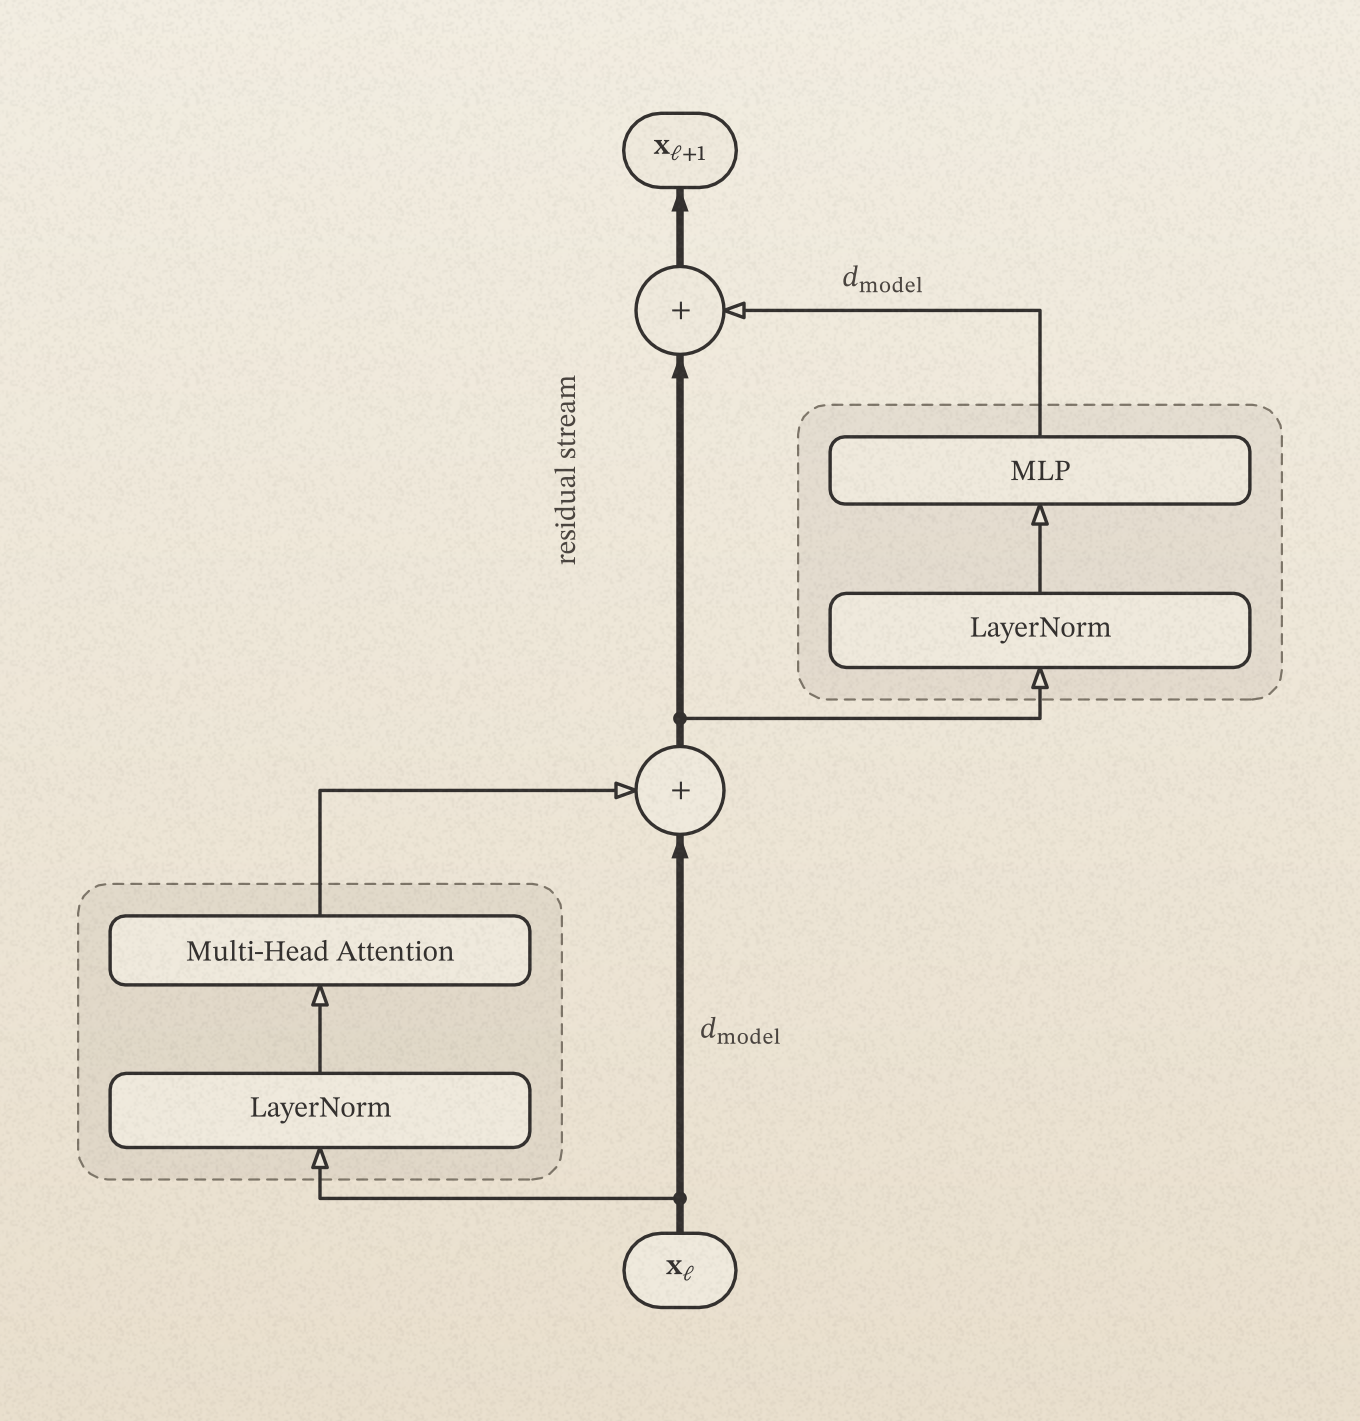
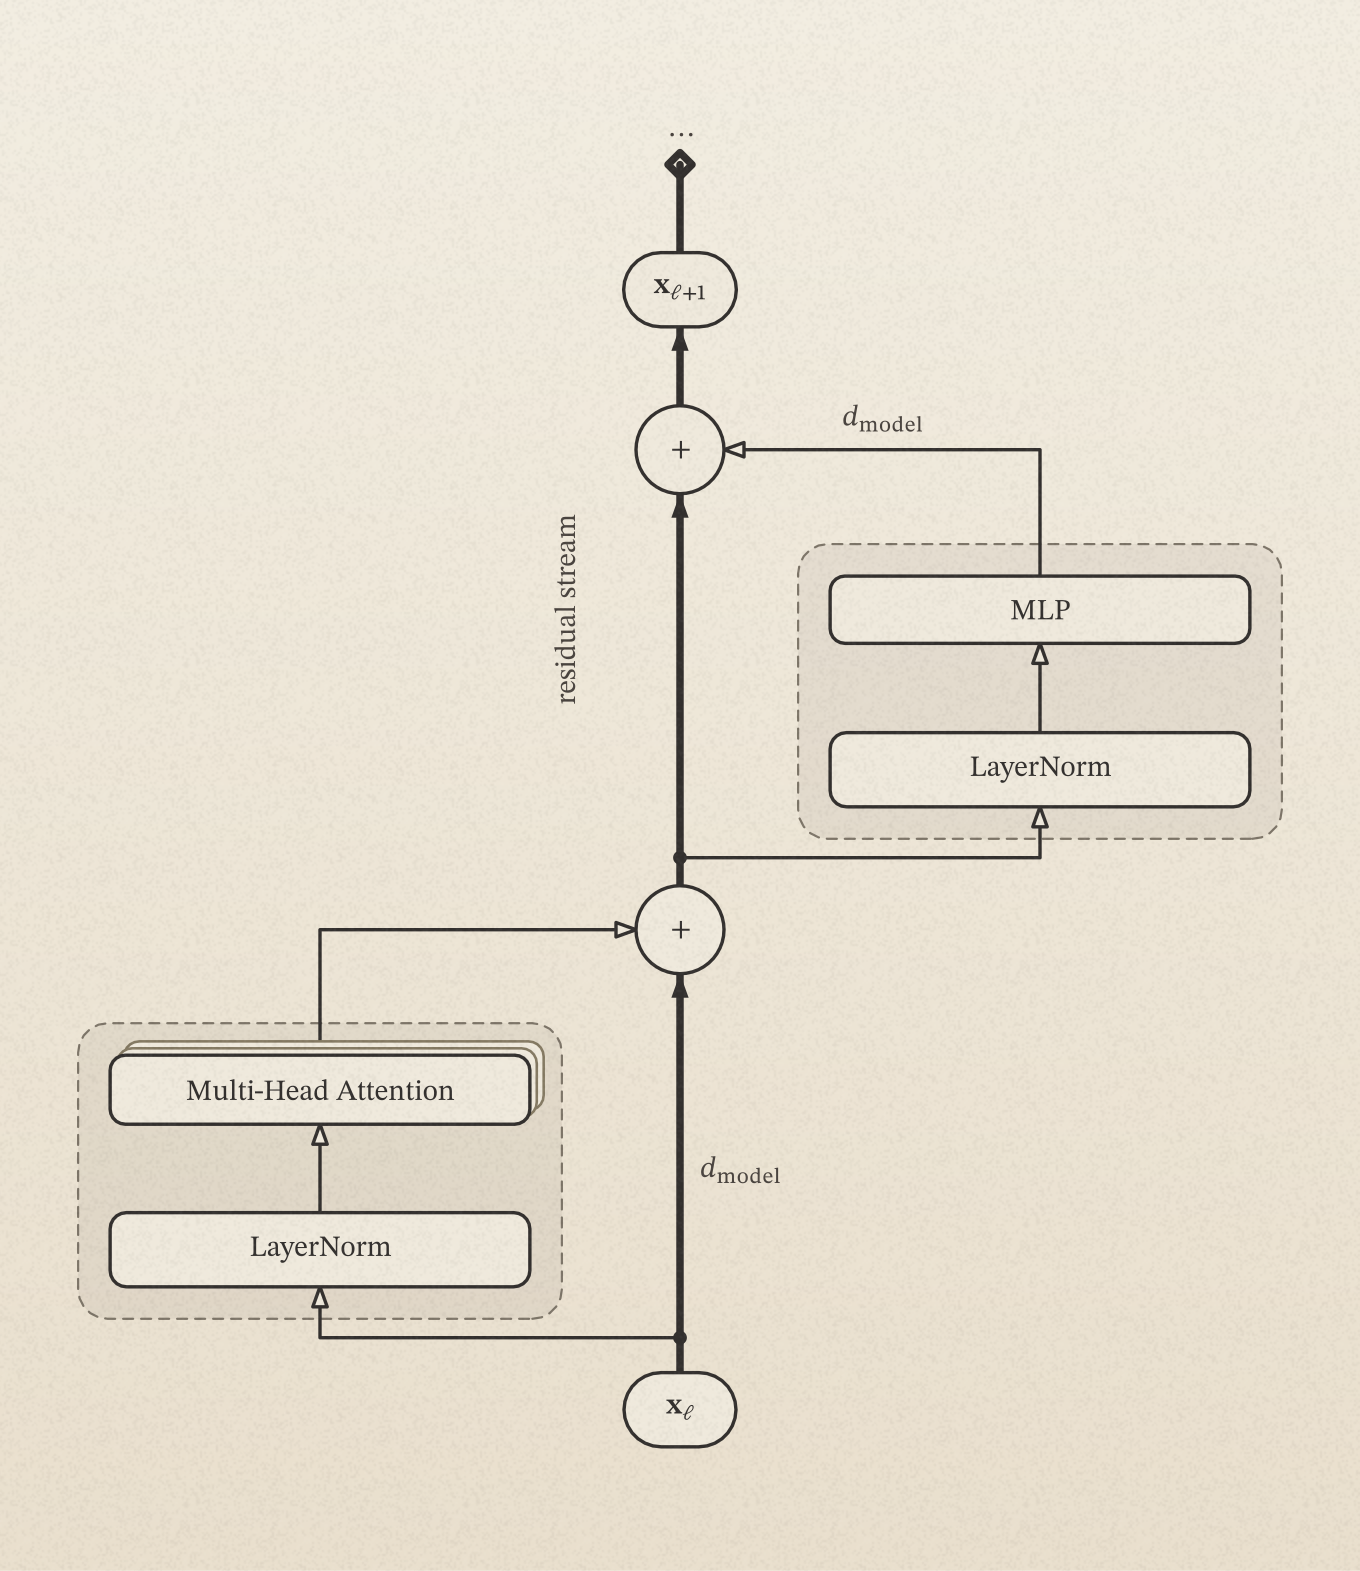
figures: transformer block draws its elisions — stack, truncation, junction, mono strip

diff --git a/figures/schematic_transformer_block.py b/figures/schematic_transformer_block.py
@@ -61,13 +61,21 @@ the layout IS the content and there is no numerics to fall back on.
    colour gate exempts because the line is then the mark carrying the
    contrast, over a wash at 0.10 that only has to be findable. Louder than
    the corpus, and the corpus value is unavailable on grained paper.
-8. HONESTY. This is one block with multi-head attention drawn as a single
-   box: heads, the QKV projections, the softmax, the MLP's inner width and
-   nonlinearity, dropout, and the final LayerNorm a pre-norm stack needs
-   at the top are all absent. It also draws the attention sublayer as if
-   it saw one position, when the whole point of attention is that it reads
-   OTHER positions' streams — this is a single column for a single token,
-   and that is the figure's main lie.
+8. HONESTY. Two of the elisions are now DRAWN instead of confessed here.
+   The attention box carries `stack=2` ghost cards: one box abbreviating
+   n heads, said on the page. And the stream above x_{l+1} continues on a
+   `truncated` edge — hollow diamond, ellipsis — because the block
+   repeats and the subscript alone was carrying that silently. Still
+   absent and still only confessed: the QKV projections, the softmax, the
+   MLP's inner width and nonlinearity, dropout, and the final LayerNorm a
+   pre-norm stack needs at the top. It also draws the attention sublayer
+   as if it saw one position, when the whole point of attention is that it
+   reads OTHER positions' streams — this is a single column for a single
+   token, and that is the figure's main lie. No QK junction and no mono
+   token strip, deliberately: the figure's claim is about what is on the
+   residual stream, the attention box is a single abbreviated node (that
+   is what the stack says), and nothing drawn here is literal model input
+   — x_l is a mid-stack activation, not a token.
 9. GATES. Numerical = the structural asserts below: the drawn y-order
    agrees with the DAG's longest-path ranking (no edge runs backwards),
    NO SUBLAYER GROUND straddles the spine lane (the pre-norm claim, made
@@ -77,6 +85,8 @@ the layout IS the content and there is no numerics to fall back on.
    opposite sides, both adds take exactly two inputs, ports are exact,
    zero crossings, no edge pierces a box it is not attached to.
 """
+
+import dataclasses
 
 import numpy as np
 
@@ -130,10 +140,34 @@ PARAMS = {
     "tap_frac": 0.45,          # read height, as a fraction of the rank gap
     "spine_width": 2.2,        # THE object: weight, not hue
     "branch_width": 1.0,
+    "attn_stack": 2,           # ghost cards: the box abbreviates n heads
+    "trunc_len_px": 44.0,      # the drawn stub of the continuing depth axis
+    "trunc_half_px": 6.0,      # half-diagonal of the truncation diamond
     "expected_crossings": 0,
     "xlim": (-1.0, 1.0),       # pins the px-per-unit scale; see compute()
-    "ylim": (-0.09, 2.00),
+    "ylim": (-0.09, 2.22),
 }
+
+
+class _StackUpNode(sch.Node):
+    """`stack` ghosts offset UP-right instead of the library's down-right.
+
+    Layout-local, not a library opinion: this figure's flow is upward, so
+    down-right cards sit on the incoming edge and swallow its arrowhead,
+    while up-right cards recede along the OUTGOING edge — the branch
+    visibly emerges from behind the stack, and the read arrow underneath
+    stays clean.
+    """
+
+    def items(self):
+        if not self.stack:
+            return super().items()
+        pts = self.outline()
+        d0 = sch.STACK_OFFSET * min(abs(self.width), abs(self.height))
+        ghosts = []
+        for k in range(int(self.stack), 0, -1):
+            ghosts += self._card(pts + [k * d0, k * d0], Role.MUTED)
+        return ghosts + dataclasses.replace(self, stack=0).items()
 
 
 def compute(p):
@@ -163,9 +197,13 @@ def compute(p):
                    for k in branch_keys), 0.0)
     nodes: dict[str, sch.Node] = {}
     for k in branch_keys:
+        # the attention box abbreviates n heads: ghost cards, not a caption
         nodes[k] = sch.auto_node(k, pos[k], lab[k], scale=scale, size_pt=size_pt,
                                  pad_px=p["box_pad_px"], min_size=box_min,
-                                 fill=RISO.background)
+                                 fill=RISO.background,
+                                 stack=p["attn_stack"] if k == "attn" else 0)
+    # same node, up-right ghosts (see _StackUpNode)
+    nodes["attn"] = _StackUpNode(**dataclasses.asdict(nodes["attn"]))
     for k in ("in", "out"):
         w, h = sch.auto_size(lab[k], scale, size_pt, p["pill_pad_px"],
                              (u(p["pill_min_px"][0]), u(p["pill_min_px"][1])))
@@ -185,6 +223,13 @@ def compute(p):
     chain = p["spine"]
     for i, (a, b) in enumerate(zip(chain, chain[1:]), start=1):
         edges.append(sch.connect(nodes[a], nodes[b], key=f"spine{i}", **spine_kw))
+    # the depth axis continues: the block REPEATS, and that used to ride
+    # silently on the subscript. A truncated stub past x_{l+1} draws it —
+    # hollow diamond, ellipsis: "goes on, deliberately stopped here"
+    top = nodes["out"].port("top")
+    edges.append(sch.edge(top, (top[0], top[1] + u(p["trunc_len_px"])),
+                          truncated=True, trunc_half=u(p["trunc_half_px"]),
+                          key="depth", **spine_kw))
     # d_model on the first segment, in the empty gutter opposite branch 1
     e = edges[0]
     e.label, e.label_role = dm, Role.ANNOTATION
@@ -312,9 +357,26 @@ def assertions(g):
         c.check(np.allclose(e.pts[:, 0], x_spine, atol=1e-12),
                 f"{e.key} is not vertical at x = {x_spine}")
         c.check(np.all(np.diff(e.pts[:, 1]) > 0), f"{e.key} does not run upward")
-    branch = [e for e in edges if not e.key.startswith("spine")]
+    branch = [e for e in edges
+              if not e.key.startswith("spine") and e.key != "depth"]
     c.check(min(e.width_scale for e in spine) > max(e.width_scale for e in branch),
             "the residual stream is not the heaviest ink in the figure")
+    # the truncation stub is spine ink continuing the same line: it must
+    # leave x_{l+1}'s top edge, stay on the lane, run upward, and its
+    # ellipsis must land inside the declared limits (rank layout, not the
+    # stub, decides where out's top is — so this CAN drift)
+    depth = by_key["depth"]
+    c.check(np.allclose(depth.pts[:, 0], x_spine, atol=1e-12),
+            f"the depth stub is not on the spine lane at x = {x_spine}")
+    c.check(abs(depth.anchors[0][1] - nodes["out"].rect[3]) < 1e-9,
+            "the depth stub does not leave x_{l+1}'s top edge")
+    c.check(depth.anchors[1][1] > depth.anchors[0][1],
+            "the depth stub does not continue upward")
+    c.check(depth.width_scale == p["spine_width"],
+            "the depth stub is not drawn at stream weight — it reads as "
+            "an annotation, not the same line continuing")
+    c.check(depth.anchors[1][1] + 4.0 * u(p["trunc_half_px"]) < g["ylim"][1],
+            "the truncation mark escapes the declared ylim")
     chain = p["spine"]
     for e, (a, b) in zip(spine, zip(chain, chain[1:])):
         c.check(abs(e.anchors[0][1] - nodes[a].rect[3]) < 1e-9,
@@ -342,7 +404,8 @@ def assertions(g):
                 f"{add} has {len(incoming)} inputs, not (stream + {sub})")
 
     # --- schematic checks ---------------------------------------------------
-    ported = [e for e in edges if not e.key.startswith("read->")]
+    ported = [e for e in edges
+              if not e.key.startswith("read->") and e.key != "depth"]
     off = sch.max_port_offset(ported, node_list)
     c.check(off < 1e-9, f"port attachment off the box boundary by {off:.3g}")
     for e in edges:

diff --git a/figures/out/schematic_transformer_block.readback.md b/figures/out/schematic_transformer_block.readback.md
@@ -1,0 +1,55 @@
+# Readback record
+
+**Verdict:** pass
+
+## Intended claim
+
+In a pre-norm transformer block the residual stream is the main path and nothing sits on it: attention and the MLP are branches that READ a normalized copy of the stream and ADD their output back, so the LayerNorms never touch what is carried forward and every write is the same d_model width as the stream it is added to.
+
+## Cold readback
+
+GLANCE: A vertical flow diagram of one transformer layer: one thick
+arrow runs straight up the middle through two circled-+ nodes, with a
+LayerNorm -> Multi-Head Attention loop hanging off the left and a
+LayerNorm -> MLP loop off the right. The thick line looks like the point:
+the main path is the stream itself, and the sublayers are side loops.
+
+STUDY:
+2. Claim: across a (pre-norm) transformer block the residual stream is
+   carried forward unchanged except for two additive writes — attention
+   and the MLP each read a LayerNormed copy of the stream and add their
+   d_model-wide output back at a circled +, so no LayerNorm (indeed no
+   sublayer at all) sits on the path that is carried forward, and the
+   same structure continues upward into further layers.
+3. Confusions / guesses:
+   - The stacked cards behind Multi-Head Attention read as "several of
+     these in parallel" — presumably the heads — but the count is
+     unstated, and a cold reader could instead take it as "this box
+     repeats across layers".
+   - The hollow diamond under the top ellipsis is an unfamiliar glyph; the
+     "continues beyond the drawing" reading comes almost entirely from the
+     ellipsis, not the diamond.
+   - Hollow vs filled arrowheads clearly encode something (transformed
+     output vs the stream carrying itself?) but there is no legend; and
+     d_model is written on the stream and on the MLP write, so the
+     attention write being d_model too has to be inferred by symmetry.
+4. Verifiable by inspection: each branch taps the stream at a dot BELOW
+   the + where it writes back; both LayerNorms sit inside the dashed
+   sublayer groups, off the central line; the thick line never enters any
+   box; the two branches are on opposite sides. On trust: that circled +
+   is vector addition, that the two writes really have the stream's
+   width, and everything inside the boxes.
+
+GLANCE GRADE: the glance read lands on the claim (thick central line =
+the residual stream is the main path; sublayers are loops off it).
+
+## Notes
+
+Cold read performed by the task agent from a fresh look at the PNG
+(no separate harness available); misses recorded, not smoothed.
+Accepted ambiguities: the stack mark's head-count is inherently
+unstated (that is what an abbreviation mark means); the truncation
+diamond is carried by its ellipsis for a reader who has not seen the
+mark before — acceptable, the ellipsis is the load-bearing glyph; the
+hollow/filled head distinction remains legendless by house grammar
+(kind vocabulary), unchanged from the previous record.
